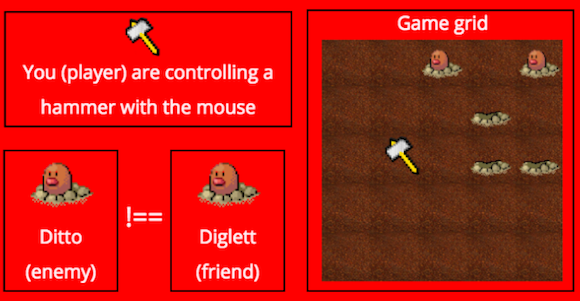
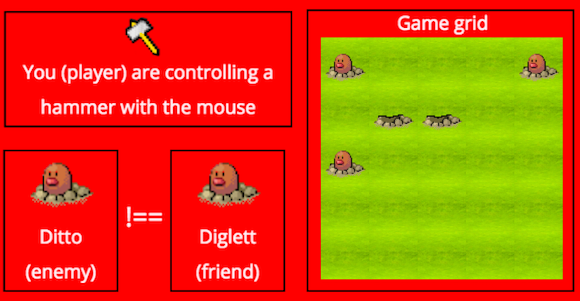
different game over screens added

diff --git a/javascripts/main.js b/javascripts/main.js
@@ -9,14 +9,29 @@ function buildDOM(html) {
 function main() {
   var splashScreen;
   var gameOverScreen;
+  var highscoresScreen;
   var startButton;
+  //var highscoresButton;
   var scoreNoElement;
   var restartButton;
+  var backButton;
+  var rank;
+  //var scores = [];
+  //var scoresObj = {
+  //  name: null,
+  //  rank: null,
+  //  score: null,
+  //};
+  var gameOverContainer;
   
   function buildSplash() {
     splashScreen = buildDOM(`
       <main>
         <img class="logo" alt="Whack-a-ditto logo">
+        <div class="center">
+        <img id="game-gif" alt="ditto-gif">
+        </div>
+        <div id="instructions">
         <p class="text title">Instructions:</p>
         <div class="text-container">
           <li class="text left">Get the max score hitting as many diglett-shaped dittos as possible avoiding hitting any diglett</li>
@@ -24,17 +39,31 @@ function main() {
           <li class="text left">Watch out! Dittos and digletts look identical</li>
           <li class="text left">There is only ONE diglett in each level</li>
         </div>
-        <p class="text title">Game elements:</p>
         <img class="game-elements" alt="Game elements">
+        </div>
         <div class="center">
-          <input class="button" type="button" value="Start">
+          <input class="button start" type="button" value="Start">
+          <input class="button" id="instructionsbtn" type="button" value="Show/Hide instructions"> 
         </div>
       </main>
     `)
-
+//<input class="button highscores" type="button" value="Highscores">
     document.body.prepend(splashScreen);
-    startButton = document.querySelector('input');
+
+    var instructionsButton  = document.getElementById('instructionsbtn');
+    var instructions = document.getElementById('instructions');
+    var gif = document.getElementById('game-gif');
+
+    instructionsButton.addEventListener('click', function() {
+      instructions.classList.toggle('show');
+      gif.classList.toggle('hide');
+    });
+
+    startButton = document.querySelector('.start');
     startButton.addEventListener('click', destroySplash);
+
+    //highscoresButton = document.querySelector('.highscores');
+    //highscoresButton.addEventListener('click', destroySplash2);
   }
 
   function destroySplash() {
@@ -42,6 +71,12 @@ function main() {
     startButton.removeEventListener('click', destroySplash);
     buildGameScreen();
   }
+
+  //function destroySplash2() {
+  //  splashScreen.remove();
+  //  highscoresButton.removeEventListener('click', destroySplash2);
+  //  buildHighscoresScreen();
+  //}
 
   function buildGameScreen() {
     var game = new Game();
@@ -62,21 +97,102 @@ function main() {
     gameOverScreen = buildDOM(`
       <main>
         <img class="game-over-logo" alt="Game Over logo">
-        <p class="score text">Your final score: <span class="scoreNumber"></span></p>
+        <p class="text">Your final score: <span class="scoreNumber"></span></p>
+        <p class="text">RANK: <span class="rank"></span></p>
+        <div class="game-over-container">
+        </div>
         <div class="center">
-          <input class="button" type="button" value="Start again">
+          <input class="button restart" type="button" value="Start again">
         </div>
       </main>  
     `);
+
+    //<div class="center">
+    //  <label for="name" class="text">Name initials (3 characters):</label>
+    //  <input class="input" type="text" id="name" name="name" required minlength="3" maxlength="3" size="3">
+    //</div>
 
     document.body.prepend(gameOverScreen);
     
     scoreNoElement = document.querySelector('.scoreNumber');
     scoreNoElement.innerText = score;
+    //scoresObj.score = score;
 
-    restartButton = document.querySelector('input');
+    gameOverContainer = document.querySelector('.game-over-container');
+    rank = document.querySelector('.rank');
+
+    if(score < 3000) {
+      rank.innerText = 'MAGIKARP';
+      //scoresObj.rank = 'MAGIKARP';
+      gameOverContainer.classList.add('magikarp');
+    } else if(score < 6000) {
+      rank.innerText = 'PSYDUCK';
+      //scoresObj.rank = 'PSYDUCK';
+      gameOverContainer.classList.add('psyduck');
+    } else if(score < 9000) {
+      rank.innerText = 'KADABRA';
+      //scoresObj.rank = 'KADABRA';
+      gameOverContainer.classList.add('kadabra');
+    } else if(score < 12000) {
+      rank.innerText = 'GENGAR';
+      //scoresObj.rank = 'GENGAR';
+      gameOverContainer.classList.add('gengar');
+    } else if(score < 15000) {
+      rank.innerText = 'MEWTWO';
+      //scoresObj.rank = 'MEWTWO';
+      gameOverContainer.classList.add('mewtwo');
+    } else {
+      rank.innerText = 'MEW';
+      //scoresObj.rank = 'MEW';
+      gameOverContainer.classList.add('mew');
+    }
+
+    //scoresObj.name = document.querySelector('.input').value;
+    //scores.push(scoresObj);
+    //localStorage.setItem('score', JSON.stringify(scores[scores.length -1]));
+
+    restartButton = document.querySelector('.restart');
     restartButton.addEventListener('click', destroyGameOverScreen)
   }
+
+
+  //function buildHighscoresScreen() {
+
+  //  highscoresScreen = buildDOM(`
+  //  <main>
+  //    <img class="logo" alt="Whack-a-ditto logo">
+  //    <p class="text title">Highscores:</p>
+  //    <ol class="highscores-container">
+  //      <li class="text left"></li>
+  //      <li class="text left"></li>
+  //      <li class="text left"></li>
+  //      <li class="text left"></li>
+  //      <li class="text left"></li>
+  //      <li class="text left"></li>
+  //      <li class="text left"></li>
+  //      <li class="text left"></li>
+  //      <li class="text left"></li>
+  //      <li class="text left"></li>
+  //    </ol>
+  //    <div class="center">
+  //      <input class="button back" type="button" value="Back">
+  //    </div>
+  //  </main>
+  //`)
+
+  //  document.body.prepend(highscoresScreen);
+
+  //  scoresParsed = JSON.parse(localStorage.getItem('scores'));
+  
+  //  backButton = document.querySelector('.back');
+  //  backButton.addEventListener('click', destroyHighscoresScreen);
+  //}
+
+  //function destroyHighscoresScreen() {
+  //  highscoresScreen.remove();
+  //  backButton.removeEventListener('click', destroyHighscoresScreen);
+  //  buildSplash();
+  //}
 
   function destroyGameOverScreen() {
     gameOverScreen.remove();

diff --git a/stylesheets/style.css b/stylesheets/style.css
@@ -55,14 +55,32 @@ body {
   max-width: 100%;
 }
 
+.game-elements {        
+  display: block;
+  margin-left: auto;
+  margin-right: auto;
+  content: url("../images/game-elements.png");
+  max-width: 100%;
+}
+
 .ground {        
   display: block;
   margin-left: auto;
   margin-right: auto;
-  content: url("../images/ground.jpg");
+  content: url("../images/ground.jpeg");
   height: 80px;
   width: 80px;
 }
+
+.field {        
+  display: block;
+  margin-left: auto;
+  margin-right: auto;
+  content: url("../images/field-background.jpg");
+  height: 80px;
+  width: 80px;
+}
+
 
 .hole {        
   display: block;
@@ -77,7 +95,7 @@ body {
   display: block;
   margin-left: auto;
   margin-right: auto;
-  content: url("../images/diglett.jpg");
+  content: url("../images/diglett.jpeg");
   height: 80px;
   width: 80px;
 }
@@ -86,7 +104,7 @@ body {
   display: block;
   margin-left: auto;
   margin-right: auto;
-  content: url("../images/diglett.jpg");
+  content: url("../images/diglett.jpeg");
   height: 80px;
   width: 80px;
 }
@@ -102,8 +120,15 @@ body {
 
 .text-container {
   background-color: red;
-  height: 120px;
+  height: 140px;
   width: 600px;
+  margin: 0 auto;
+}
+
+.highscores-container {
+  background-color: red;
+  height: 250px;
+  width: 500px;
   margin: 0 auto;
 }
 
@@ -152,6 +177,65 @@ body {
   height: 400px;
   width: 400px;
   margin: 0 auto;
+}
+
+.game-over-container {
+  height: 400px;
+  width: 400px;
+  margin: 0 auto;
+  padding-bottom: 10px;
+}
+
+#instructions{
+  display: none;
+}
+
+#instructions.show{
+  display: block;
+}
+
+#game-gif{
+  padding-top: 10px;
+  padding-bottom: 10px;
+  display: block;
+  margin-left: auto;
+  margin-right: auto;
+  max-width: 100%;
+  content: url("../images/diglett-gif.gif");
+}
+
+#game-gif.hide{
+  display: none;
+}
+
+.magikarp {        
+  content: url("../images/magikarp.gif");
+  max-width: none;
+}
+
+.psyduck {        
+  content: url("../images/psyduck.gif");
+  max-width: none;
+}
+
+.kadabra {        
+  content: url("../images/kadabra.gif");
+  max-width: none;
+}
+
+.gengar {        
+  content: url("../images/gengar.gif");
+  max-width: none;
+}
+
+.mewtwo {        
+  content: url("../images/mewtwo.gif");
+  max-width: none;
+}
+
+.mew {        
+  content: url("../images/mew.gif");
+  max-width: none;
 }
 
 .grid-item {

diff --git a/javascripts/game.js b/javascripts/game.js
@@ -80,12 +80,14 @@ Game.prototype.start = function() {
       this.timePositions[this.timePositions.length] = this.randomnumber;
   }
   
-  for(i = 0; i < 25; i++) {
+
+
+  for(var i = 0; i < 25; i++) {
     this.gridElement[i].classList.add('ground');
   }
 
-  for(j = 0; j < this.numberHoles; j++) {
-    this.gridElement[this.holePositions[j]].classList.add('hole');
+  for(var i = 0; i < this.numberHoles; i++) {
+    this.gridElement[this.holePositions[i]].classList.add('hole');
   }
 
   this.levelElement = this.gameScreen.querySelector('.level');
@@ -106,11 +108,9 @@ Game.prototype.startTimer = function() {
   this.intervalId = setInterval(function() {
     this.timeLeft--;
     this.timeElement.innerText = this.timeLeft;
-
-    for(k = 0; k < this.numberHoles; k++) {
-      if(this.timeLeft === this.timePositions[k]) this.createPokemon(this.holePositions[k]);
+    for(var i = 0; i < this.numberHoles; i++) {
+      if(this.timeLeft === this.timePositions[i]) this.createPokemon(this.holePositions[i]);
     }
-
     if (this.timeLeft === 0) {
       if(this.level === 5) this.finishGame();
       else {
@@ -119,7 +119,6 @@ Game.prototype.startTimer = function() {
       this.levelUp();
       }
     }
-
   }.bind(this), 1000);
 }
 
